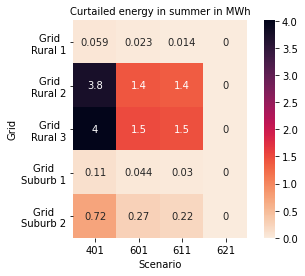
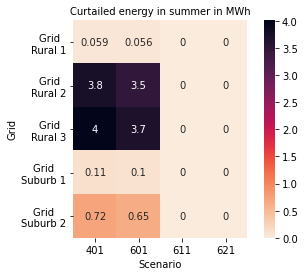
Add adjustments for shortened data

diff --git a/src/tools/evaluation/Evaluation.py b/src/tools/evaluation/Evaluation.py
@@ -181,6 +181,145 @@ def plot_residualload_subplot_overall_eva(power_summer, power_winter, save_fig_d
 
   if save_fig_dir is not None:
      plt.savefig(save_fig_dir, bbox_inches='tight')
+     
+def plot_residualload_subplot_overall_eva_neu(power_summer, power_winter, save_fig_dir=None):
+    prop_cycle = plt.rcParams['axes.prop_cycle']
+    c = prop_cycle.by_key()['color']
+
+    power_summer = -power_summer*1
+    power_winter = -power_winter*1
+    power = [power_summer, power_winter]
+    '''
+    power = self.power*1000
+    curtailed = self.curtailed_power*1000
+    losses = self.losses_p.sum(axis=1)*1000
+    '''
+
+  fig, ax = plt.subplots(1, 2, figsize=(10,5), sharey=True,  gridspec_kw={'wspace': .05})
+  for i in [0,1]:
+    ax[i].fill_between(power[i].index, 0, power[i].pv, alpha=0.7)
+    ax[i].plot(power[i].index, power[i].pv, lw=.6)
+    ax[i].fill_between(power[i].index, 0, -power[i].ev, alpha=0.7)
+    ax[i].plot(power[i].index, -power[i].ev, lw=.6)
+    ax[i].fill_between(power[i].index, -power[i].ev, -power[i].load-power[i].ev, alpha=0.7)
+    ax[i].plot(power[i].index, -power[i].load-power[i].ev, lw=.6)
+    ax[i].fill_between(power[i].index, -power[i].load-power[i].ev, -power[i].hp-power[i].load-power[i].ev, alpha=0.7)
+    ax[i].plot(power[i].index, -power[i].hp-power[i].load-power[i].ev, lw=.6)
+    power[i] = shorted_data(power[i], 'H')
+    ax[i].plot(power[i].index, power[i].pv-power[i].hp-power[i].load-power[i].ev, color='black', lw=1)
+    ax[i].set_xticks([k for k in power[i].index if (k.hour == 12) & (k.minute == 0)])
+    ax[i].set_xticklabels(['  Day 1', '  Day 2', '  Day 3', '  Day 4', '  Day 5', '  Day 6', '  Day 7'])
+    ax[i].set(xlim=(power[i].index[0], power[i].index[-1]), ylim=(-2.000, .500))
+    plt.legend(['PV Generation','EV Load','Household Load','HP Load', 'Residual Load'], loc='lower right', shadow=True, markerscale=1.0)
+
+  ax[0].set_ylabel('Power in MW')
+  ax[0].set_xlabel('Summer')
+  ax[1].set_xlabel('Winter')
+
+  if save_fig_dir is not None:
+     plt.savefig(save_fig_dir, bbox_inches='tight')
+     
+def plot_residualload_neu(self, add_curtail, add_losses):
+    prop_cycle = plt.rcParams['axes.prop_cycle']
+    c = prop_cycle.by_key()['color']
+
+    power = self.power*1000
+    curtailed = self.curtailed_power*1000
+    losses = self.losses_p.sum(axis=1)*1000
+
+    storage = -self.storage_p*1000
+    storage_sum = storage.sum(axis=1)
+    storage_charge = storage.copy()
+    storage_charge[storage_charge > 0] = 0
+    storage_charge = -storage_charge
+    storage_charge = storage_charge.sum(axis=1)
+
+    storage_discharge = storage.copy()
+    storage_discharge[storage_discharge < 0] = 0
+    storage_discharge = storage_discharge.sum(axis=1)
+
+    fig, ax = plt.subplots()
+    ax.fill_between(power.index,                     -storage_discharge,                     -storage_discharge - power.pv, alpha=0.7, color=c[0])
+    ax.fill_between(power.index,                         storage_charge,                         power.ev + storage_charge, alpha=0.7, color=c[1])
+    ax.fill_between(power.index,              power.ev + storage_charge,            power.load + power.ev + storage_charge, alpha=0.7, color=c[2])
+    ax.fill_between(power.index, power.load + power.ev + storage_charge, power.hp + power.load + power.ev + storage_charge, alpha=0.7, color=c[3])
+    ax.fill_between(power.index, 0 , storage_charge     , alpha=0.7, color=c[4])
+    ax.fill_between(power.index, 0 , -storage_discharge , alpha=0.7, color=c[4])
+    if add_curtail:
+      ax.fill_between(power.index, power.hp + power.load + power.ev + storage_charge, power.hp + power.load + power.ev + storage_charge + curtailed.curtail_load, alpha=0.2, color=c[5])
+      ax.fill_between(power.index,                     -storage_discharge - power.pv,                       -storage_discharge - power.pv - curtailed.curtail_pv, alpha=0.2, color=c[0])
+    if add_losses:
+      ax.fill_between(power.index, power.hp + power.load + power.ev + storage_charge, power.hp + power.load + power.ev + storage_charge + losses, alpha=0.7, color=c[8])
+
+    ax.plot(power.index, -storage_discharge-power.pv, lw=.6)
+    ax.plot(power.index, storage_charge+power.ev, lw=.6)
+    ax.plot(power.index, storage_charge+power.load+power.ev, lw=.6)
+    ax.plot(power.index, storage_charge+power.hp+power.load+power.ev, lw=.6)
+    ax.plot(storage.index, storage_charge    , lw=.6)
+    ax.plot(storage.index, -storage_discharge, lw=.6)
+    if add_losses:
+      ax.plot(power.index, storage_charge+power.hp+power.load+power.ev + losses, color=c[8], lw=.6)
+
+    #power = self.shorted_data(power, '1H')
+    #storage = self.shorted_data(storage, '1H')
+    ax.plot(power.index, -power.pv+power.hp+power.load+power.ev-storage_sum, color='black', lw=.5)
+    ax.set_xlabel('Time')
+    ax.set_ylabel('Power in kW')
+
+    patch_list = [
+         mpatches.Patch(color=c[0], alpha=0.7, label='Photovoltaic generation'),
+         mpatches.Patch(color=c[1], alpha=0.7, label='E-vehicle load'),
+         mpatches.Patch(color=c[2], alpha=0.7, label='Household load'),
+         mpatches.Patch(color=c[3], alpha=0.7, label='Heat pump load'),
+         mpatches.Patch(color=c[4], alpha=0.7, label='Storage'),
+         mpatches.Patch(color=c[0], alpha=0.7, label='Curtailed energy'),
+         mpatches.Patch(color=c[8], alpha=0.7, label='Line and trafo losses')
+                 ]
+
+    if add_curtail and add_losses:
+      patch_list = [
+         mpatches.Patch(color=c[0], alpha=0.7, label='Photovoltaic generation'),
+         mpatches.Patch(color=c[1], alpha=0.7, label='E-vehicle load'),
+         mpatches.Patch(color=c[2], alpha=0.7, label='Household load'),
+         mpatches.Patch(color=c[3], alpha=0.7, label='Heat pump load'),
+         mpatches.Patch(color=c[4], alpha=0.7, label='Storage'),
+         mpatches.Patch(color=c[0], alpha=0.7, label='Curtailed energy'),
+         mpatches.Patch(color=c[8], alpha=0.7, label='Line and trafo losses')
+                 ]
+      plt.legend(handles=patch_list)
+    if not add_curtail and add_losses:
+      patch_list = [
+         mpatches.Patch(color=c[0], alpha=0.7, label='Photovoltaic generation'),
+         mpatches.Patch(color=c[1], alpha=0.7, label='E-vehicle load'),
+         mpatches.Patch(color=c[2], alpha=0.7, label='Household load'),
+         mpatches.Patch(color=c[3], alpha=0.7, label='Heat pump load'),
+         mpatches.Patch(color=c[4], alpha=0.7, label='Storage'),
+         mpatches.Patch(color=c[8], alpha=0.7, label='Line and trafo losses')
+                 ]
+      plt.legend(['Photovoltaic generation','E-vehicle load','Household load','Heat pump load', 'Storage', 'Line and trafo losses'])
+    if add_curtail and not add_losses:
+      patch_list = [
+         mpatches.Patch(color=c[0], alpha=0.7, label='Photovoltaic generation'),
+         mpatches.Patch(color=c[1], alpha=0.7, label='E-vehicle load'),
+         mpatches.Patch(color=c[2], alpha=0.7, label='Household load'),
+         mpatches.Patch(color=c[3], alpha=0.7, label='Heat pump load'),
+         mpatches.Patch(color=c[4], alpha=0.7, label='Storage'),
+         mpatches.Patch(color=c[0], alpha=0.7, label='Curtailed energy')
+                 ]
+
+      plt.legend(['Photovoltaic generation','E-vehicle load','Household load','Heat pump load', 'Storage', 'Curtailed energy'])
+    if not add_curtail and not add_losses:
+      patch_list = [
+         mpatches.Patch(color=c[0], alpha=0.7, label='Photovoltaic generation'),
+         mpatches.Patch(color=c[1], alpha=0.7, label='E-vehicle load'),
+         mpatches.Patch(color=c[2], alpha=0.7, label='Household load'),
+         mpatches.Patch(color=c[3], alpha=0.7, label='Heat pump load'),
+         mpatches.Patch(color=c[4], alpha=0.7, label='Storage')
+                 ]
+
+      plt.legend(['Photovoltaic generation','E-vehicle load','Household load','Heat pump load', 'Storage'])
+    plt.show()
+
 
 def plot_residualload_subplot_overall_eva_timeslot(power_summer, power_winter, save_fig_dir=None):
 

diff --git a/src/main_EVA.py b/src/main_EVA.py
@@ -51,7 +51,8 @@ net_name = ["kerber_rural_1", #0
 # Image output directory
 save_fig_dir = 'img/'
 
-output_df_dir = 'output-files/000_evaluation_dicts/'
+#output_df_dir = 'output-files/000_evaluation_dicts/'
+output_df_dir = 'output-files/000_evaluation_dicts_shortened_data/' #Tabea
 
 print('Load eva dicts ...')
 files = os.listdir(output_df_dir)
@@ -93,19 +94,19 @@ print('Create Other plots')
 evaluation.plot_residualload_subplot_overall_eva(eva['s600n11summer']['power'], eva['s600n11winter']['power'], save_fig_dir=save_fig_dir+'plot_res_load_subplot_s600n11.png')
 evaluation.plot_residualload_subplot_overall_eva(eva['s601n11summer']['power'], eva['s601n11winter']['power'], save_fig_dir=save_fig_dir+'plot_res_load_subplot_s601n11.png')
 
-evaluation.plot_residualload_subplot_overall_eva_timeslot(eva['s400n11summer']['power'], eva['s400n11winter']['power'], save_fig_dir=save_fig_dir+'plot_res_load_subplot_s400n11_detailed.png')
-evaluation.plot_residualload_subplot_overall_eva_timeslot(eva['s401n11summer']['power'], eva['s401n11winter']['power'], save_fig_dir=save_fig_dir+'plot_res_load_subplot_s401n11_detailed.png')
+evaluation.plot_residualload_subplot_overall_eva_timeslot(eva['s600n11summer']['power'], eva['s600n11winter']['power'], save_fig_dir=save_fig_dir+'plot_res_load_subplot_s600n11_detailed.png')
+evaluation.plot_residualload_subplot_overall_eva_timeslot(eva['s601n11summer']['power'], eva['s601n11winter']['power'], save_fig_dir=save_fig_dir+'plot_res_load_subplot_s601n11_detailed.png')
 '''
 evaluation.plot_generation_consumption_as_heat_map_overall_eva(eva['s400n9winter']['power'], save_fig_dir=save_fig_dir+'gen_con_heatmap_winter.png')
 evaluation.plot_generation_consumption_as_heat_map_overall_eva(eva['s400n9summer']['power'], save_fig_dir=save_fig_dir+'gen_con_heatmap_summer.png')
 
 evaluation.plot_grid_issus_over_power(eva['s400n8winter'], save_fig_dir=save_fig_dir + 'plot_grid_issus_over_power.png')
 '''
-evaluation.plot_grid_issus_over_time_subplot(eva_summer=eva['s400n11summer'], eva_winter=eva['s400n11winter'], save_fig_dir=save_fig_dir+ 'plot_grid_issus_over_time_subplot_s400n11.png')
-evaluation.plot_grid_issus_over_time_subplot(eva_summer=eva['s401n11summer'], eva_winter=eva['s401n11winter'], save_fig_dir=save_fig_dir+ 'plot_grid_issus_over_time_subplot_s401n11.png')
+evaluation.plot_grid_issus_over_time_subplot(eva_summer=eva['s600n11summer'], eva_winter=eva['s600n11winter'], save_fig_dir=save_fig_dir+ 'plot_grid_issus_over_time_subplot_s600n11.png')
+evaluation.plot_grid_issus_over_time_subplot(eva_summer=eva['s601n11summer'], eva_winter=eva['s601n11winter'], save_fig_dir=save_fig_dir+ 'plot_grid_issus_over_time_subplot_s601n11.png')
 
-evaluation.plot_grid_issus_over_time_subplot(eva_summer=eva['s400n11summer'], eva_winter=eva['s400n11winter'], detailed=True, save_fig_dir=save_fig_dir+ 'plot_grid_issus_over_time_subplot_s400n11.png')
-evaluation.plot_grid_issus_over_time_subplot(eva_summer=eva['s401n11summer'], eva_winter=eva['s401n11winter'], detailed=True, save_fig_dir=save_fig_dir+ 'plot_grid_issus_over_time_subplot_s401n11.png')
+evaluation.plot_grid_issus_over_time_subplot(eva_summer=eva['s600n11summer'], eva_winter=eva['s600n11winter'], detailed=True, save_fig_dir=save_fig_dir+ 'plot_grid_issus_over_time_subplot_s600n11.png')
+evaluation.plot_grid_issus_over_time_subplot(eva_summer=eva['s601n11summer'], eva_winter=eva['s601n11winter'], detailed=True, save_fig_dir=save_fig_dir+ 'plot_grid_issus_over_time_subplot_s601n11.png')
 
 evaluation.plot_curtailed_power(eva, scenario=401 , save_fig_dir=save_fig_dir)
 evaluation.plot_curtailed_power(eva, scenario=601 , save_fig_dir=save_fig_dir)

diff --git a/src/main_EnergyCell.py b/src/main_EnergyCell.py
@@ -34,27 +34,27 @@ time_scope_summer_soc = { 'start_time' : '2017-05-26 00:00:00+02:00',
                       'name'       : 'summer'
                     }
 
-time_scope_winter = { 'start_time' : '2017-01-02 00:00:00+01:00',
+time_scope_winter_with_extra_time = { 'start_time' : '2017-01-02 00:00:00+01:00',
                       'end_time'   : '2017-01-11 00:00:00+01:00',
                       't_freq'     : '1T',
                       'name'       : 'winter'
                     }
 
 
-time_scope_summer = { 'start_time' : '2017-05-24 00:00:00+02:00',
+time_scope_summer_with_extra_time = { 'start_time' : '2017-05-24 00:00:00+02:00',
                       'end_time'   : '2017-06-02 00:00:00+02:00',
                       't_freq'     : '1T',
                       'name'       : 'summer'
                     }
 
-time_scope_winter_original = { 'start_time' : '2017-01-04 00:00:00+01:00',
+time_scope_winter = { 'start_time' : '2017-01-04 00:00:00+01:00',
                       'end_time'   : '2017-01-11 00:00:00+01:00',
                       't_freq'     : '1T',
                       'name'       : 'winter'
                     }
 
 
-time_scope_summer_original = { 'start_time' : '2017-05-26 00:00:00+02:00',
+time_scope_summer = { 'start_time' : '2017-05-26 00:00:00+02:00',
                       'end_time'   : '2017-06-02 00:00:00+02:00',
                       't_freq'     : '1T',
                       'name'       : 'summer'
@@ -198,7 +198,7 @@ elif run_simulation == 1:
 
 
 elif run_simulation == 11:
-  scenarios = [600, 601, 610, 611
+  scenarios = [400, 401
   ]
   ''' 
   scenarios = [
@@ -215,7 +215,7 @@ elif run_simulation == 11:
   evaluation_all = EvaAllCases.EvaluationAllCases(
                                  net_names = net_name,
                                  scenarios = scenarios,
-                                 time_scopes = [time_scope_winter_soc, time_scope_summer_soc])
+                                 time_scopes = [time_scope_winter, time_scope_summer])
 
   print('Done')
 ###############################

diff --git a/src/tools/shorten_data.py b/src/tools/shorten_data.py
@@ -11,7 +11,7 @@ import pandas as pd
 from pandas.plotting import register_matplotlib_converters
 register_matplotlib_converters()
 
-scenarios = [600]
+scenarios = [600,601]
 days = 2
 timestep_min = 1
 winter_week = '2017-01-02_2017-01-11_1T'
@@ -63,10 +63,10 @@ for scenario_i in scenarios:
                         data_shortened.to_csv('../output-files/shortened_data/' \
                                       + str(scenario_i) +'/' + net_i + '/' \
                                       + week_shortened_i + '/' + str(output_data_i), \
-                                          sep=';', index = False)
+                                          sep=',', index = False)
                     elif week_shortened_i == summer_week_shortened and week_i == summer_week:
                         data_shortened.to_csv('../output-files/shortened_data/' \
                                       + str(scenario_i) +'/' + net_i + '/' \
                                       + week_shortened_i + '/' + str(output_data_i), \
-                                          sep=';', index = False)
+                                          sep=',', index = False)
 

diff --git a/src/tools/evaluation/EvaluationAllCases.py b/src/tools/evaluation/EvaluationAllCases.py
@@ -12,6 +12,7 @@ import _pickle as cPickle
 class EvaluationAllCases():
   def __init__(self, net_names, scenarios, time_scopes):
     output_df_dir = 'output-files/000_evaluation_dicts/'
+    #output_df_dir = 'output-files/000_evaluation_dicts_shortened_data/' #Tabea
 
     eva = {}
     df_eva_v = pd.DataFrame(columns=['time', 'voltage', 'scenario', 'timescope', 'gridID', 'busID'])
@@ -28,6 +29,7 @@ class EvaluationAllCases():
       for time_scope_i in time_scopes:
         for net_name_i in [7, 8, 9, 10, 11]:
           output_dir = os.path.join("./", "output-files/"+str(scenario_i)+"/"+str(net_names[net_name_i])+"/"+time_scope_i['start_time'][0:10]+"_"+time_scope_i['end_time'][0:10]+"_"+time_scope_i['t_freq']+"/")
+          #output_dir = os.path.join("./", "output-files/shortened_data/"+str(scenario_i)+"/"+str(net_names[net_name_i])+"/"+time_scope_i['start_time'][0:10]+"_"+time_scope_i['end_time'][0:10]+"_"+time_scope_i['t_freq']+"/") #Tabea
           index = 's' + str(scenario_i) + 'n' + str(net_name_i) + str(time_scope_i['name'])
           print('create: ' + str(index))
           eva[index] = {}
